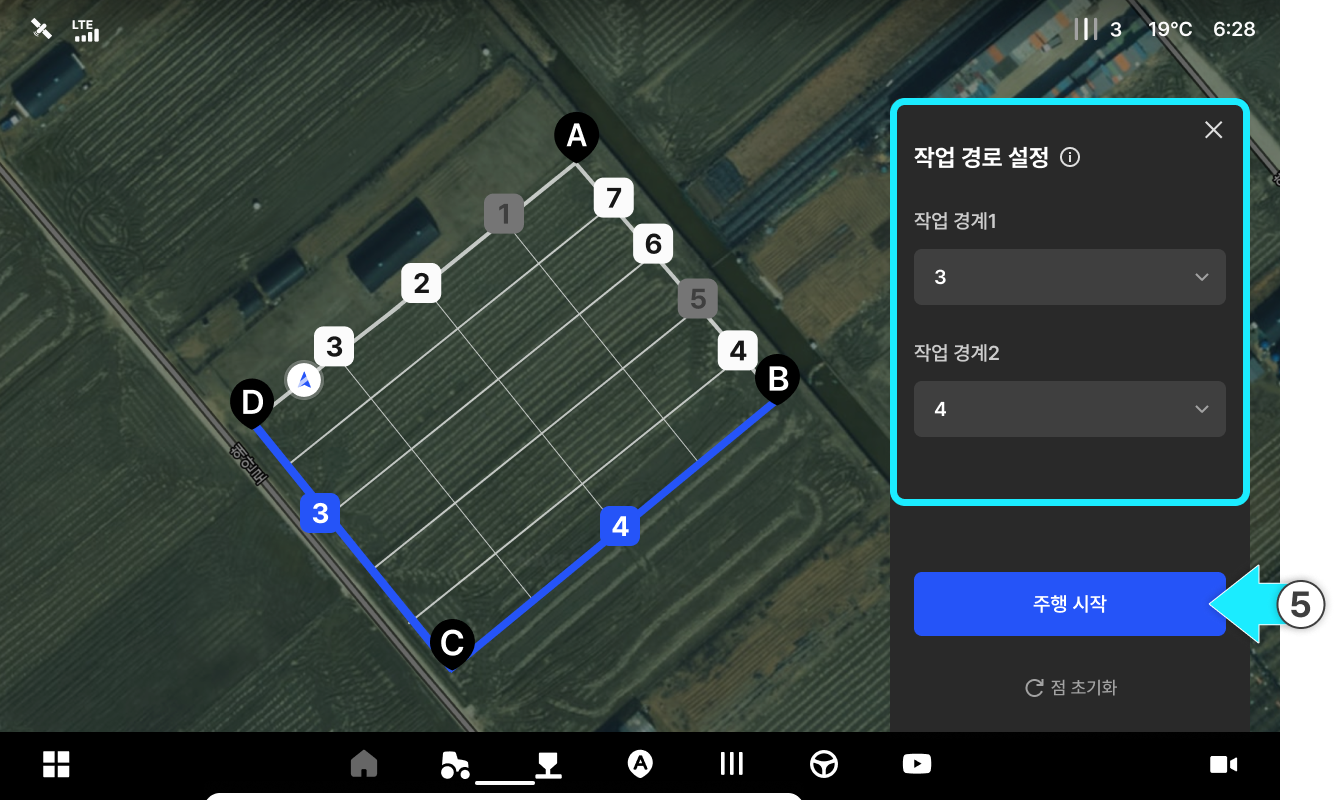
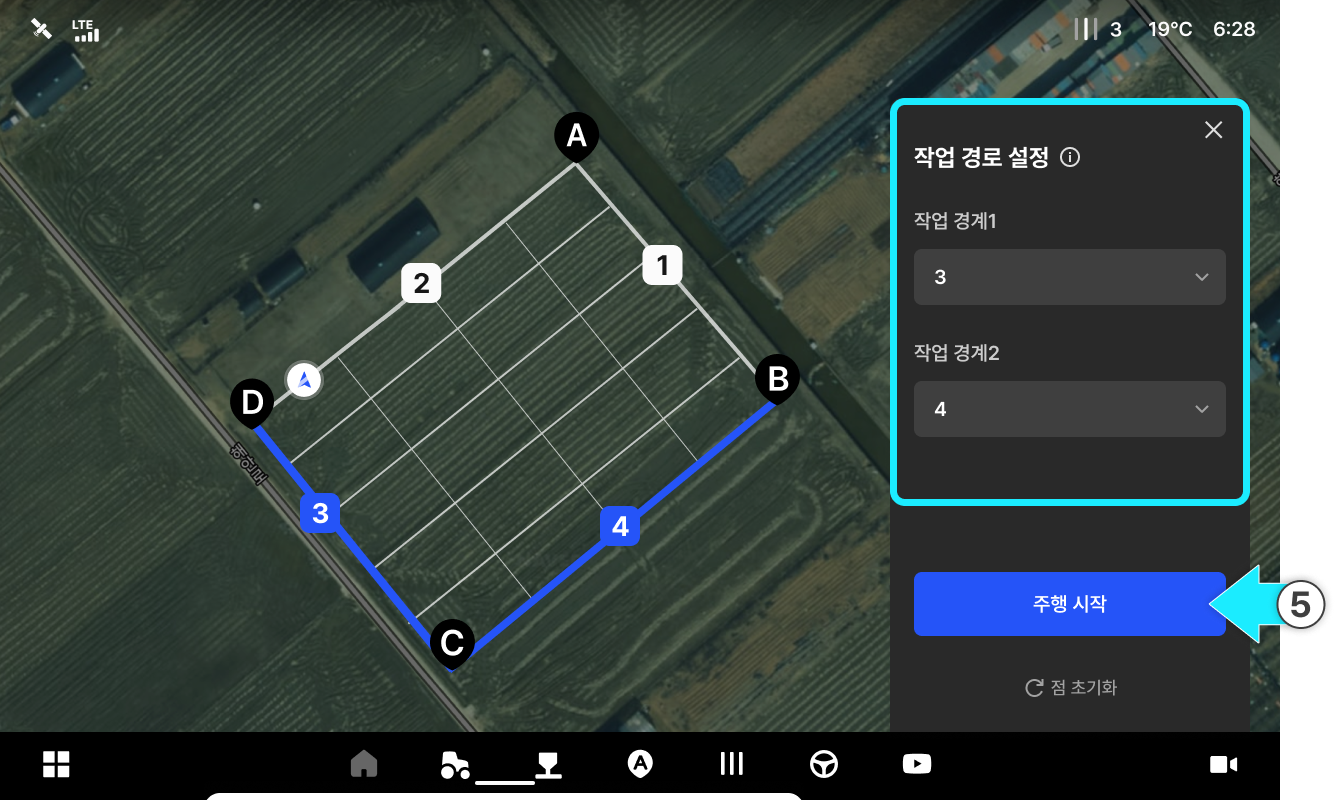
GITBOOK-33: No subject

Changed region(s): [[0.4296, 0.2188, 0.5831, 0.4688], [0.3376, 0.2188, 0.399, 0.3125], [0.2148, 0.4062, 0.2762, 0.4688]]

diff --git a/user-manual-backup/ion/driving/cross-path.md b/user-manual-backup/ion/driving/cross-path.md
@@ -85,15 +85,10 @@ A, B, C, D 포인트를 설정하는 것은 작업할 영역의 경계(바운더
 
 {% hint style="info" %}
 **작업 경로 기준변 선택 조건**\
-두 기준변은 아래 조건을 모두 충족해야 선택할 수 있습니다. 조건을 충족하지 못하는 변은 선택 항목으로 노출되지않습니다.\
-\
-**조건 1. 두 기준변의 사이각이 45도 이상**
+두 기준변은 아래 조건을 모두 충족해야 선택할 수 있습니다. 조건을 충족하지 못하는 변은 선택 항목으로 노출되지않습니다.
 
-두 기준변이 이루는 각도가 45도 미만이면 교차 방향 커버리지 효과가 미미하여 선택할 수 없습니다.
-
-**조건 2. 기준변 길이가 작업기 폭 × 4 이상**
-
-최소 경로 3개를 생성하기 위한 길이가 확보되어야 합니다.
+* 선택된 작업 경계와 각도가 비슷한 경우
+* 길이가 너무 짧은 경우 (작업기 폭\*4 미만)
 {% endhint %}
 {% endstep %}
 
